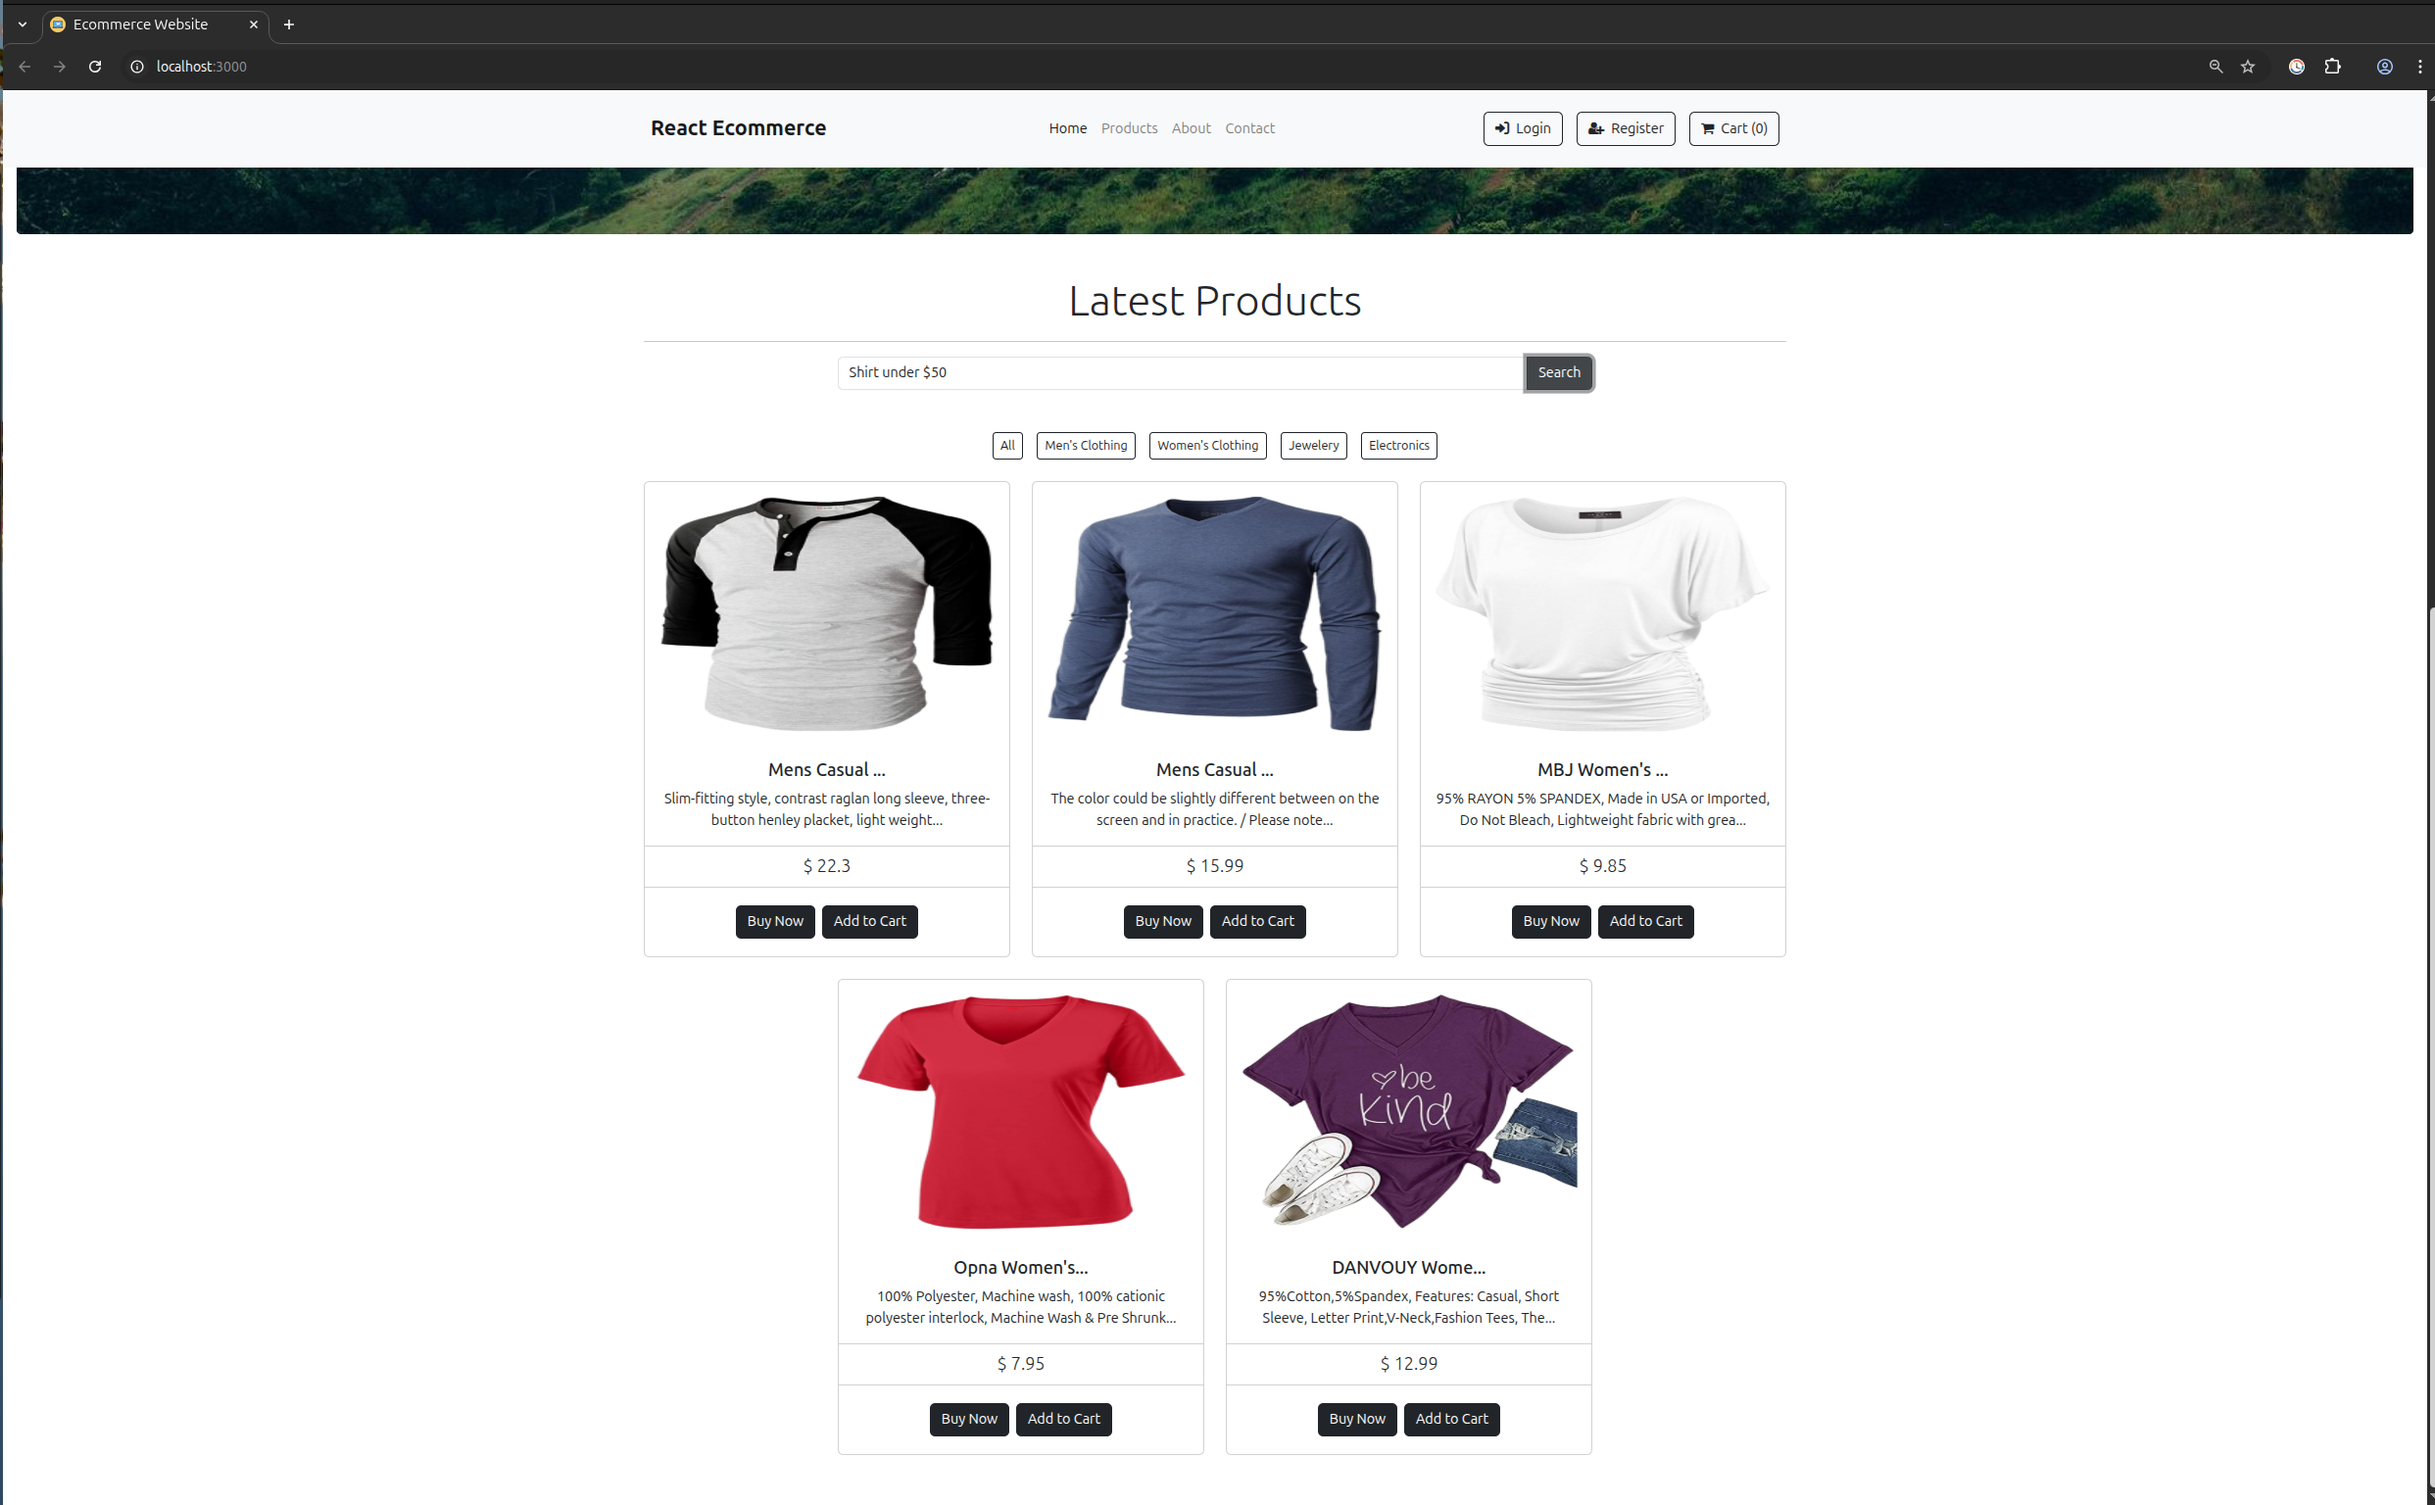
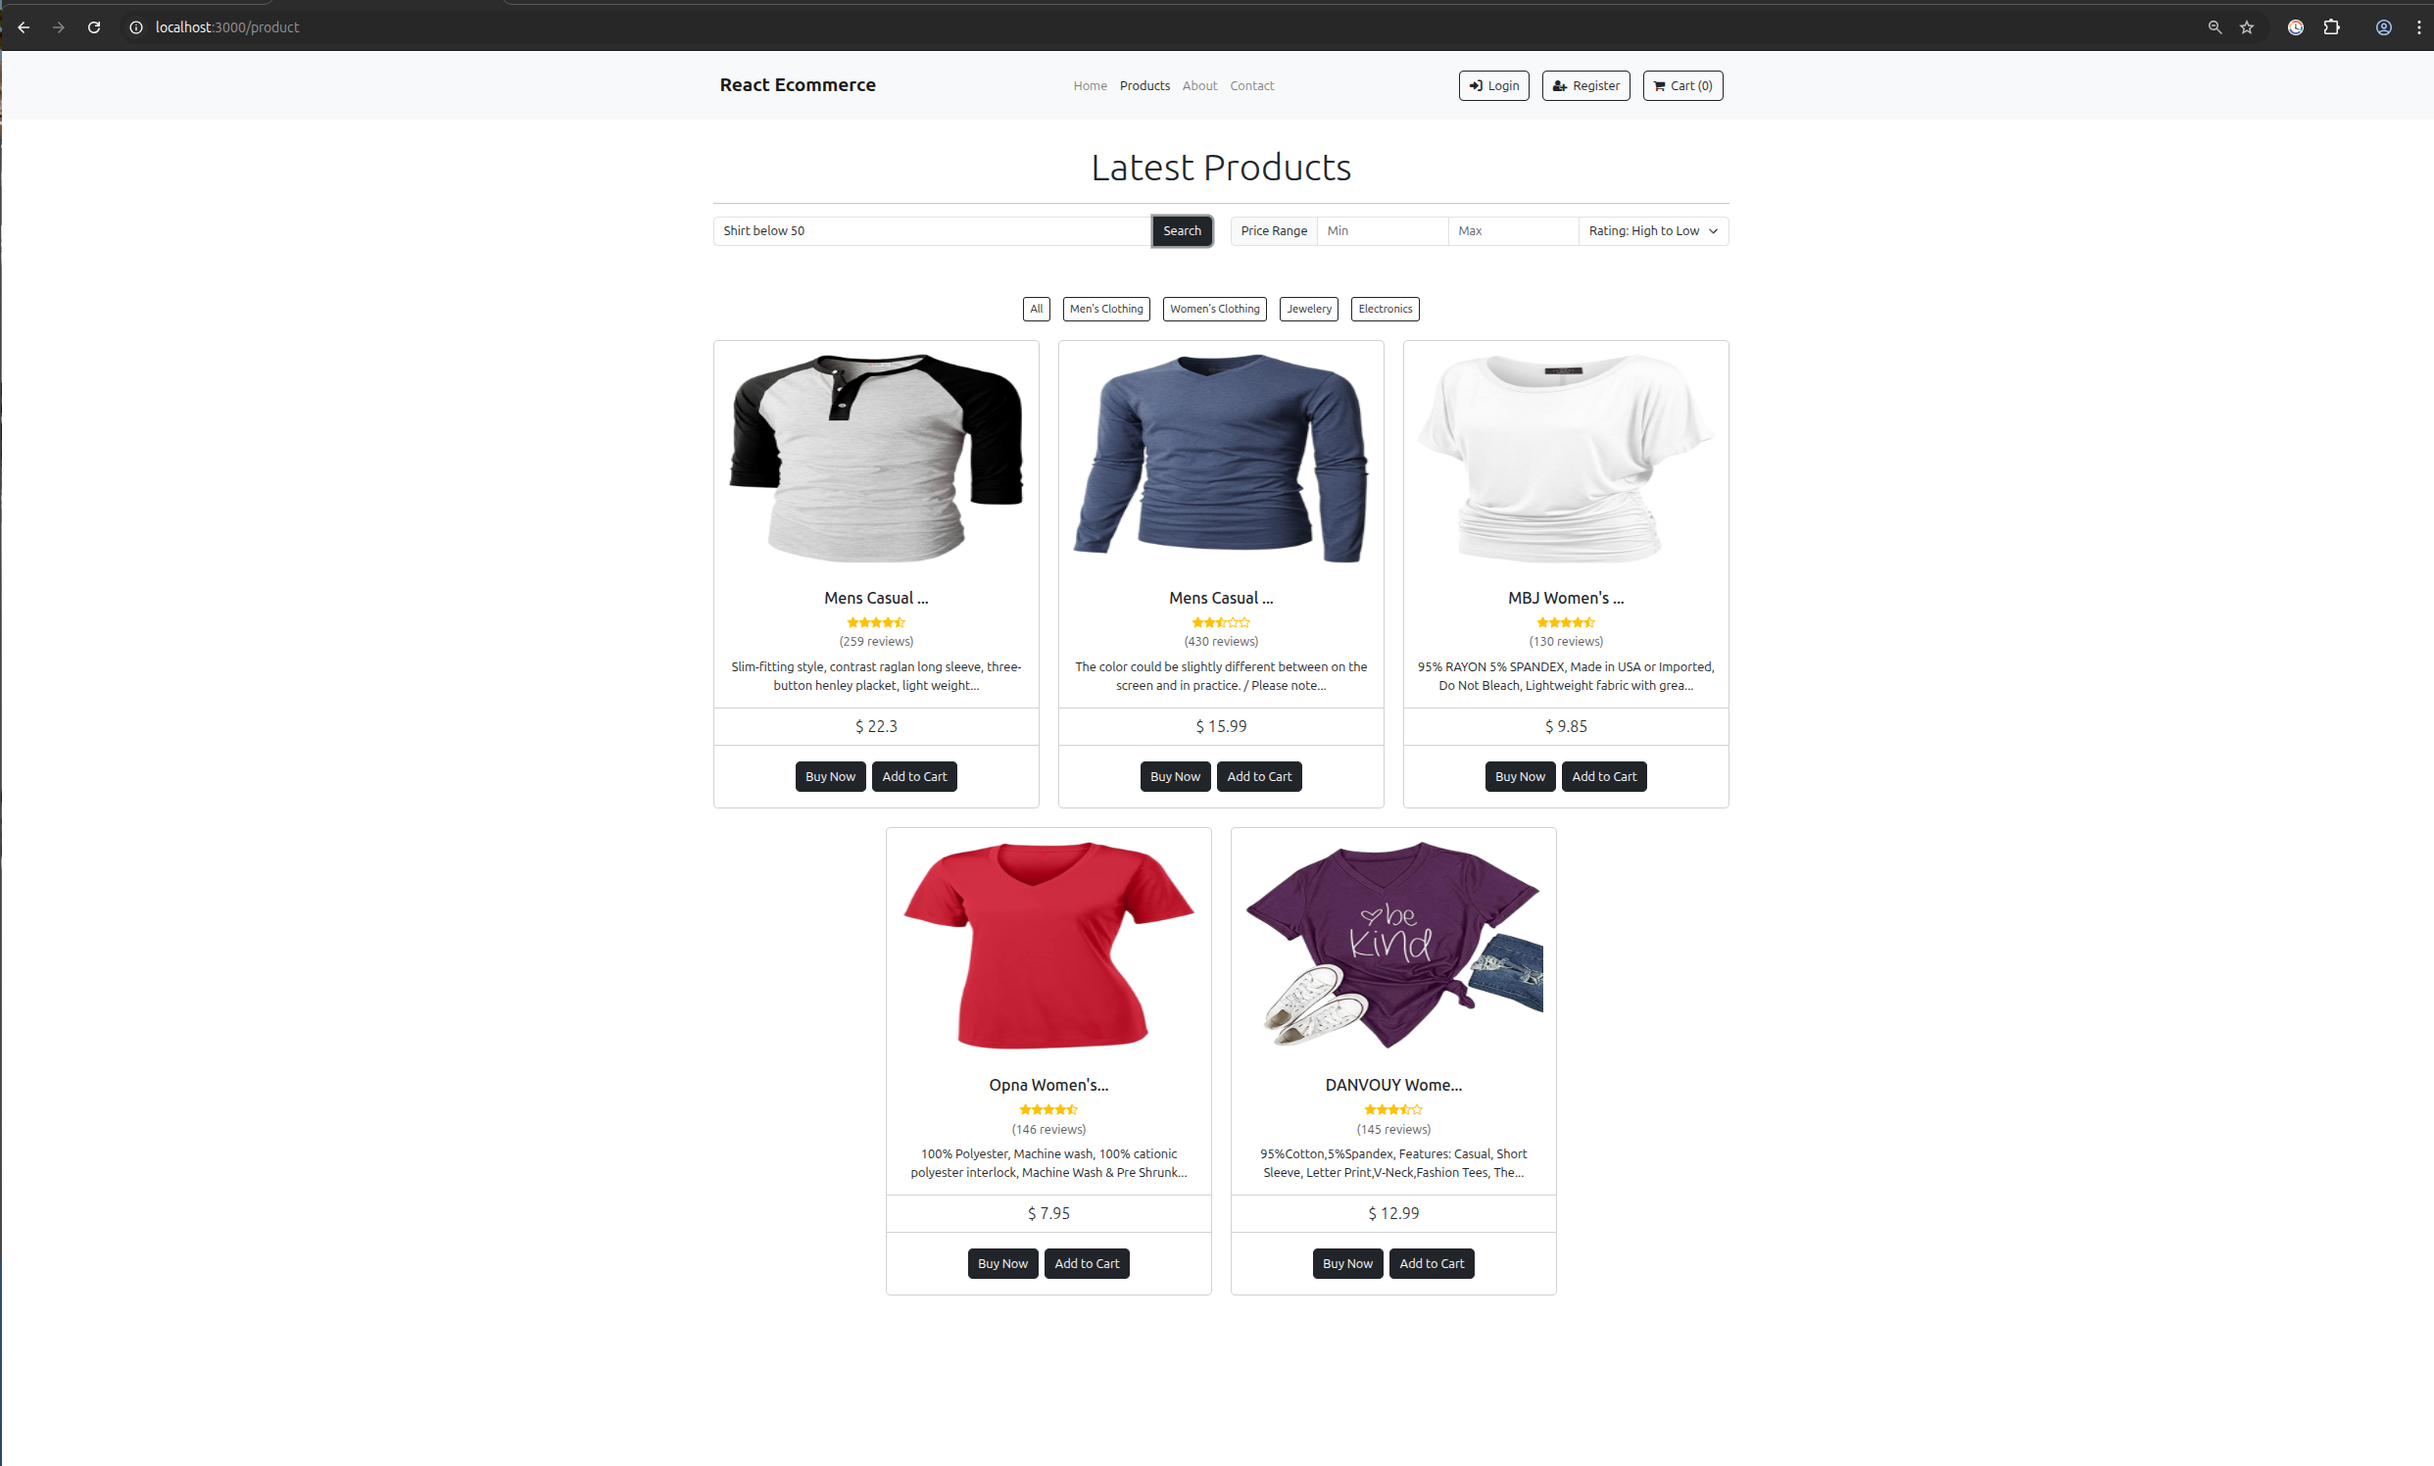
Update Images

Changed region(s): [[0.0, 0.0, 1.0, 1.0]]

diff --git a/src/components/Products.jsx b/src/components/Products.jsx
@@ -11,6 +11,9 @@ const Products = () => {
   const [filter, setFilter] = useState([]);
   const [loading, setLoading] = useState(false);
   const [searchQuery, setSearchQuery] = useState("");
+  const [minPrice, setMinPrice] = useState("");
+  const [maxPrice, setMaxPrice] = useState("");
+  const [sortOption, setSortOption] = useState("default");
 
   const dispatch = useDispatch();
 
@@ -31,11 +34,7 @@ const Products = () => {
   }, []);
 
   const handleAiSearch = async () => {
-    console.log("🔍 AI Search Triggered with query:", searchQuery);
-    console.log("📦 Sending products:", data);
-
     if (!searchQuery.trim()) {
-      console.log("⚠ Empty search query — resetting filter");
       setFilter(data);
       return;
     }
@@ -50,14 +49,10 @@ const Products = () => {
         }),
       });
 
-      console.log("📡 API Response status:", response.status);
-
       const result = await response.json();
-      console.log("✅ API Result:", result);
 
       if (result.success) {
         const matchedProducts = data.filter((p) => result.ids.includes(p.id));
-        console.log("🎯 Matched products:", matchedProducts);
         setFilter(matchedProducts);
       } else {
         console.error("❌ AI Search error:", result.message);
@@ -67,9 +62,59 @@ const Products = () => {
     }
   };
 
+  const applyFiltersAndSort = () => {
+    let updatedList = [...data];
+
+    // Apply category filter
+    // This part is left for you to implement if you want to combine it with other filters.
+    // For now, the existing filterProduct function can be used independently.
+
+    // Apply price filter
+    if (minPrice !== "" || maxPrice !== "") {
+      updatedList = updatedList.filter((item) => {
+        const min = minPrice !== "" ? parseFloat(minPrice) : 0;
+        const max = maxPrice !== "" ? parseFloat(maxPrice) : Infinity;
+        return item.price >= min && item.price <= max;
+      });
+    }
+
+    // Apply sorting
+    if (sortOption === "price-asc") {
+      updatedList.sort((a, b) => a.price - b.price);
+    } else if (sortOption === "price-desc") {
+      updatedList.sort((a, b) => b.price - a.price);
+    } else if (sortOption === "rating-desc") {
+      updatedList.sort((a, b) => b.rating.rate - a.rating.rate);
+    }
+
+    setFilter(updatedList);
+  };
+
   const filterProduct = (cat) => {
     const updatedList = data.filter((item) => item.category === cat);
     setFilter(updatedList);
+  };
+
+  useEffect(() => {
+    applyFiltersAndSort();
+  }, [minPrice, maxPrice, sortOption, data]);
+
+  const renderStars = (rating) => {
+    const stars = [];
+    const fullStars = Math.floor(rating);
+    const hasHalfStar = rating % 1 !== 0;
+
+    for (let i = 0; i < fullStars; i++) {
+      stars.push(<i key={`full-${i}`} className="fa fa-star text-warning"></i>);
+    }
+    if (hasHalfStar) {
+      stars.push(<i key="half" className="fa fa-star-half-o text-warning"></i>);
+    }
+    const remainingStars = 5 - Math.ceil(rating);
+    for (let i = 0; i < remainingStars; i++) {
+      stars.push(<i key={`empty-${i}`} className="fa fa-star-o text-warning"></i>);
+    }
+    return stars;
   };
 
   const Loading = () => (
@@ -87,7 +132,6 @@ const Products = () => {
 
   const ShowProducts = () => (
     <>
-      {/* Category Buttons */}
       <div className="buttons text-center py-3">
         <button className="btn btn-outline-dark btn-sm m-2" onClick={() => setFilter(data)}>All</button>
         <button className="btn btn-outline-dark btn-sm m-2" onClick={() => filterProduct("men's clothing")}>Men's Clothing</button>
@@ -96,13 +140,17 @@ const Products = () => {
         <button className="btn btn-outline-dark btn-sm m-2" onClick={() => filterProduct("electronics")}>Electronics</button>
       </div>
 
-      {/* Products Grid */}
       {filter.map((product) => (
         <div key={product.id} className="col-md-4 col-sm-6 col-xs-8 col-12 mb-4">
           <div className="card text-center h-100">
             <img className="card-img-top p-3" src={product.image} alt="Card" height={300} />
             <div className="card-body">
               <h5 className="card-title">{product.title.substring(0, 12)}...</h5>
+              <div className="my-2">
+                {renderStars(product.rating.rate)}
+                <br />
+                <span className="text-muted">({product.rating.count} reviews)</span>
+              </div>
               <p className="card-text">{product.description.substring(0, 90)}...</p>
             </div>
             <ul className="list-group list-group-flush">
@@ -129,9 +177,9 @@ const Products = () => {
         </div>
       </div>
 
-      {/* AI Search Bar */}
       <div className="row mb-4 justify-content-center">
-        <div className="col-md-8">
+        {/* AI Search Bar */}
+        <div className="col-md-6 mb-3">
           <div className="input-group">
             <input
               type="text"
@@ -143,6 +191,37 @@ const Products = () => {
             <button className="btn btn-dark" onClick={handleAiSearch}>
               Search
             </button>
+          </div>
+        </div>
+
+        {/* Price Filter & Sort Controls */}
+        <div className="col-md-6 mb-3">
+          <div className="input-group">
+            <span className="input-group-text">Price Range</span>
+            <input
+              type="number"
+              className="form-control"
+              placeholder="Min"
+              value={minPrice}
+              onChange={(e) => setMinPrice(e.target.value)}
+            />
+            <input
+              type="number"
+              className="form-control"
+              placeholder="Max"
+              value={maxPrice}
+              onChange={(e) => setMaxPrice(e.target.value)}
+            />
+            <select
+              className="form-select"
+              value={sortOption}
+              onChange={(e) => setSortOption(e.target.value)}
+            >
+              <option value="default">Sort By...</option>
+              <option value="price-asc">Price: Low to High</option>
+              <option value="price-desc">Price: High to Low</option>
+              <option value="rating-desc">Rating: High to Low</option>
+            </select>
           </div>
         </div>
       </div>

diff --git a/src/pages/Product.jsx b/src/pages/Product.jsx
@@ -4,7 +4,6 @@ import { Link, useParams } from "react-router-dom";
 import Marquee from "react-fast-marquee";
 import { useDispatch } from "react-redux";
 import { addCart } from "../redux/action";
-
 import { Footer, Navbar } from "../components";
 
 const Product = () => {
@@ -37,6 +36,24 @@ const Product = () => {
     };
     getProduct();
   }, [id]);
+
+  const renderStars = (rating) => {
+    const stars = [];
+    const fullStars = Math.floor(rating);
+    const hasHalfStar = rating % 1 !== 0;
+
+    for (let i = 0; i < fullStars; i++) {
+      stars.push(<i key={`full-${i}`} className="fa fa-star text-warning"></i>);
+    }
+    if (hasHalfStar) {
+      stars.push(<i key="half" className="fa fa-star-half-o text-warning"></i>);
+    }
+    const remainingStars = 5 - Math.ceil(rating);
+    for (let i = 0; i < remainingStars; i++) {
+      stars.push(<i key={`empty-${i}`} className="fa fa-star-o text-warning"></i>);
+    }
+    return stars;
+  };
 
   const Loading = () => {
     return (
@@ -79,8 +96,10 @@ const Product = () => {
               <h4 className="text-uppercase text-muted">{product.category}</h4>
               <h1 className="display-5">{product.title}</h1>
               <p className="lead">
-                {product.rating && product.rating.rate}{" "}
-                <i className="fa fa-star"></i>
+                {product.rating && renderStars(product.rating.rate)}
+                <span className="ms-2">
+                  ({product.rating && product.rating.count} reviews)
+                </span>
               </p>
               <h3 className="display-6  my-4">${product.price}</h3>
               <p className="lead">{product.description}</p>
@@ -143,9 +162,6 @@ const Product = () => {
                       {item.title.substring(0, 15)}...
                     </h5>
                   </div>
-                  {/* <ul className="list-group list-group-flush">
-                    <li className="list-group-item lead">${product.price}</li>
-                  </ul> */}
                   <div className="card-body">
                     <Link
                       to={"/product/" + item.id}
@@ -175,12 +191,8 @@ const Product = () => {
         <div className="row">{loading ? <Loading /> : <ShowProduct />}</div>
         <div className="row my-5 py-5">
           <div className="d-none d-md-block">
-          <h2 className="">You may also Like</h2>
-            <Marquee
-              pauseOnHover={true}
-              pauseOnClick={true}
-              speed={50}
-            >
+            <h2 className="">You may also Like</h2>
+            <Marquee pauseOnHover={true} pauseOnClick={true} speed={50}>
               {loading2 ? <Loading2 /> : <ShowSimilarProduct />}
             </Marquee>
           </div>
